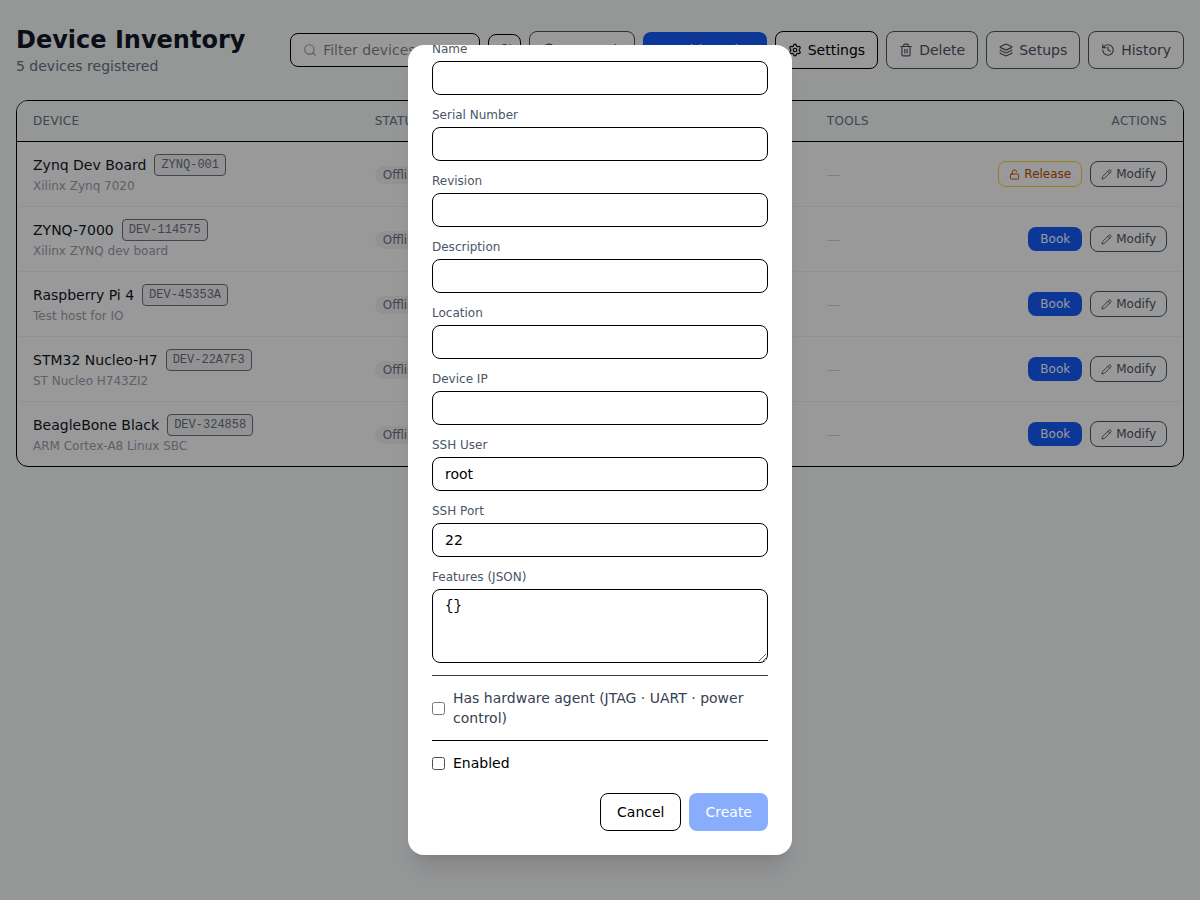
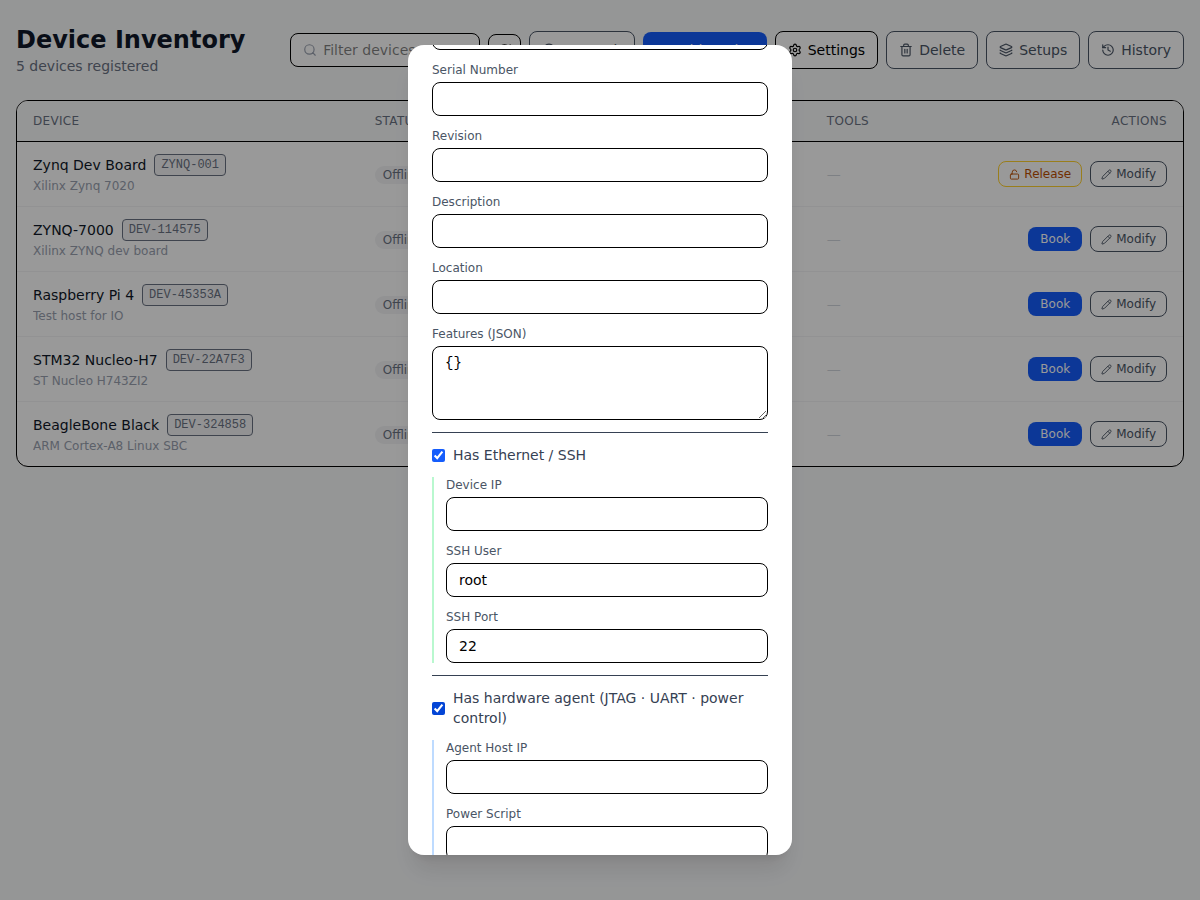
Add Ethernet/SSH checkbox to device forms; both sections collapsed by default
- Add 'Has Ethernet / SSH' checkbox (default off) that reveals Device IP,
  SSH User, and SSH Port — keeping the form minimal for non-networked boards
- 'Has hardware agent' checkbox (default off) continues to reveal Agent Host IP,
  JTAG Port, UART TCP Port, Power Script, and Power Args
- Edit modal auto-checks each section based on existing board data
- Update README to document the two optional form sections and refresh screenshots

https://claude.ai/code/session_01GABJSn9qP5pQbQ7Q7k4QpR

diff --git a/frontend/src/pages/InventoryPage.tsx b/frontend/src/pages/InventoryPage.tsx
@@ -48,6 +48,8 @@ const FIELD_BASIC: [string, keyof BoardCreate][] = [
   ['Revision', 'revision'],
   ['Description', 'description'],
   ['Location', 'location'],
+];
+const FIELD_ETHERNET: [string, keyof BoardCreate][] = [
   ['Device IP', 'device_ip'],
   ['SSH User', 'ssh_user'],
 ];
@@ -56,7 +58,6 @@ const FIELD_AGENT_TEXT: [string, keyof BoardCreate][] = [
   ['Power Script', 'power_script'],
 ];
 const FIELD_AGENT_NUM: [string, keyof BoardCreate][] = [
-  ['SSH Port', 'ssh_port'],
   ['JTAG Port', 'jtag_port'],
   ['UART TCP Port', 'uart_tcp_port'],
 ];
@@ -131,6 +132,7 @@ function AddBoardModal({ onClose }: { onClose: () => void }) {
   const [username, setUsernameState] = useState(getDefaultUser());
   const [form, setForm] = useState<BoardCreate>(DEFAULT_BOARD);
   const [featuresRaw, setFeaturesRaw] = useState('{}');
+  const [hasEthernet, setHasEthernet] = useState(false);
   const [hasAgent, setHasAgent] = useState(false);
 
   const mut = useMutation({
@@ -157,14 +159,31 @@ function AddBoardModal({ onClose }: { onClose: () => void }) {
                 onChange={(e) => setForm(f => ({ ...f, [key]: e.target.value }))} />
             </Field>
           ))}
-          <Field label="SSH Port">
-            <input type="number" className={inputCls} value={Number(form.ssh_port)}
-              onChange={(e) => setForm(f => ({ ...f, ssh_port: Number(e.target.value) }))} />
-          </Field>
           <Field label="Features (JSON)">
             <textarea className={`${inputCls} font-mono`} rows={3} value={featuresRaw}
               onChange={(e) => setFeaturesRaw(e.target.value)} />
           </Field>
+
+          {/* Ethernet / SSH section */}
+          <label className="flex items-center gap-2 text-sm font-medium text-gray-700 border-t pt-3">
+            <input type="checkbox" className="accent-blue-600" checked={hasEthernet}
+              onChange={(e) => setHasEthernet(e.target.checked)} />
+            Has Ethernet / SSH
+          </label>
+          {hasEthernet && (
+            <div className="flex flex-col gap-3 pl-3 border-l-2 border-green-200">
+              {FIELD_ETHERNET.map(([label, key]) => (
+                <Field key={key as string} label={label}>
+                  <input type="text" className={inputCls} value={String(form[key] ?? '')}
+                    onChange={(e) => setForm(f => ({ ...f, [key]: e.target.value }))} />
+                </Field>
+              ))}
+              <Field label="SSH Port">
+                <input type="number" className={inputCls} value={Number(form.ssh_port)}
+                  onChange={(e) => setForm(f => ({ ...f, ssh_port: Number(e.target.value) }))} />
+              </Field>
+            </div>
+          )}
 
           {/* Agent section */}
           <label className="flex items-center gap-2 text-sm font-medium text-gray-700 border-t pt-3">
@@ -180,7 +199,7 @@ function AddBoardModal({ onClose }: { onClose: () => void }) {
                     onChange={(e) => setForm(f => ({ ...f, [key]: e.target.value }))} />
                 </Field>
               ))}
-              {FIELD_AGENT_NUM.filter(([, k]) => k !== 'ssh_port').map(([label, key]) => (
+              {FIELD_AGENT_NUM.map(([label, key]) => (
                 <Field key={key as string} label={label}>
                   <input type="number" className={inputCls} value={Number(form[key])}
                     onChange={(e) => setForm(f => ({ ...f, [key]: Number(e.target.value) }))} />
@@ -234,6 +253,7 @@ function EditBoardModal({ board, onClose }: { board: BoardInfo; onClose: () => v
     enabled: board.enabled,
   });
   const [featuresRaw, setFeaturesRaw] = useState(JSON.stringify(board.features, null, 2));
+  const [hasEthernet, setHasEthernet] = useState(!!(board.device_ip || board.ssh_port));
   const [hasAgent, setHasAgent] = useState(!!(board.host_ip || board.jtag_port || board.uart_tcp_port));
   const [newTool, setNewTool] = useState<ToolCreate>({ type: 'logic_analyzer', model: '', connection: 'usb', connection_detail: '', notes: '' });
   const [addingTool, setAddingTool] = useState(false);
@@ -270,16 +290,12 @@ function EditBoardModal({ board, onClose }: { board: BoardInfo; onClose: () => v
           <Field label="Device ID">
             <span className="font-mono text-sm text-gray-500 bg-gray-50 border rounded-lg px-3 py-1.5">{board.device_id || '—'}</span>
           </Field>
-          {([['Name', 'name'], ['Serial Number', 'serial_number'], ['Revision', 'revision'], ['Description', 'description'], ['Location', 'location'], ['Device IP', 'device_ip'], ['SSH User', 'ssh_user']] as [string, keyof typeof form][]).map(([label, key]) => (
+          {([['Name', 'name'], ['Serial Number', 'serial_number'], ['Revision', 'revision'], ['Description', 'description'], ['Location', 'location']] as [string, keyof typeof form][]).map(([label, key]) => (
             <Field key={key} label={label}>
               <input type="text" className={inputCls} value={String(form[key] ?? '')}
                 onChange={(e) => setForm(f => ({ ...f, [key]: e.target.value }))} />
             </Field>
           ))}
-          <Field label="SSH Port">
-            <input type="number" className={inputCls} value={Number(form.ssh_port)}
-              onChange={(e) => setForm(f => ({ ...f, ssh_port: Number(e.target.value) }))} />
-          </Field>
           <Field label="Features (JSON)">
             <textarea className={`${inputCls} font-mono`} rows={3} value={featuresRaw}
               onChange={(e) => setFeaturesRaw(e.target.value)} />
@@ -288,6 +304,27 @@ function EditBoardModal({ board, onClose }: { board: BoardInfo; onClose: () => v
             <textarea className={inputCls} rows={2} value={form.current_notes}
               onChange={(e) => setForm(f => ({ ...f, current_notes: e.target.value }))} />
           </Field>
+
+          {/* Ethernet / SSH section */}
+          <label className="flex items-center gap-2 text-sm font-medium text-gray-700 border-t pt-3">
+            <input type="checkbox" className="accent-blue-600" checked={hasEthernet}
+              onChange={(e) => setHasEthernet(e.target.checked)} />
+            Has Ethernet / SSH
+          </label>
+          {hasEthernet && (
+            <div className="flex flex-col gap-3 pl-3 border-l-2 border-green-200">
+              {([['Device IP', 'device_ip'], ['SSH User', 'ssh_user']] as [string, keyof typeof form][]).map(([label, key]) => (
+                <Field key={key} label={label}>
+                  <input type="text" className={inputCls} value={String(form[key] ?? '')}
+                    onChange={(e) => setForm(f => ({ ...f, [key]: e.target.value }))} />
+                </Field>
+              ))}
+              <Field label="SSH Port">
+                <input type="number" className={inputCls} value={Number(form.ssh_port)}
+                  onChange={(e) => setForm(f => ({ ...f, ssh_port: Number(e.target.value) }))} />
+              </Field>
+            </div>
+          )}
 
           {/* Agent section */}
           <label className="flex items-center gap-2 text-sm font-medium text-gray-700 border-t pt-3">

diff --git a/README.md b/README.md
@@ -156,9 +156,9 @@ Custom controllers: subclass `power.base.PowerController`.
 |----------|--------------------------|
 | ![Settings modal for server URL and username](screenshots/settings-modal.png) | ![Add setup modal with searchable device picker](screenshots/add-setup-modal.png) |
 
-| Book Setup modal | Add device (with agent) |
-|-----------------|------------------------|
-| ![Book setup modal with duration and comment](screenshots/book-setup-modal.png) | ![Add device modal with agent section expanded](screenshots/add-device-modal-agent.png) |
+| Book Setup modal | Add device (Ethernet + agent expanded) |
+|-----------------|---------------------------------------|
+| ![Book setup modal with duration and comment](screenshots/book-setup-modal.png) | ![Add device modal with Ethernet and agent sections expanded](screenshots/add-device-modal-agent.png) |
 
 ---
 
@@ -178,6 +178,10 @@ Lists every registered device with live status:
 - **Actions** — Book · Release · Modify
 
 The **Filter** box searches by device name, device ID, location, username, or tool type.
+
+**Add Device** form has two optional sections, both collapsed by default:
+- **Has Ethernet / SSH** — reveal Device IP, SSH User, SSH Port
+- **Has hardware agent** — reveal Agent Host IP, JTAG Port, UART TCP Port, Power Script, Power Args
 
 ### Device detail (`/boards/:id`)
 
